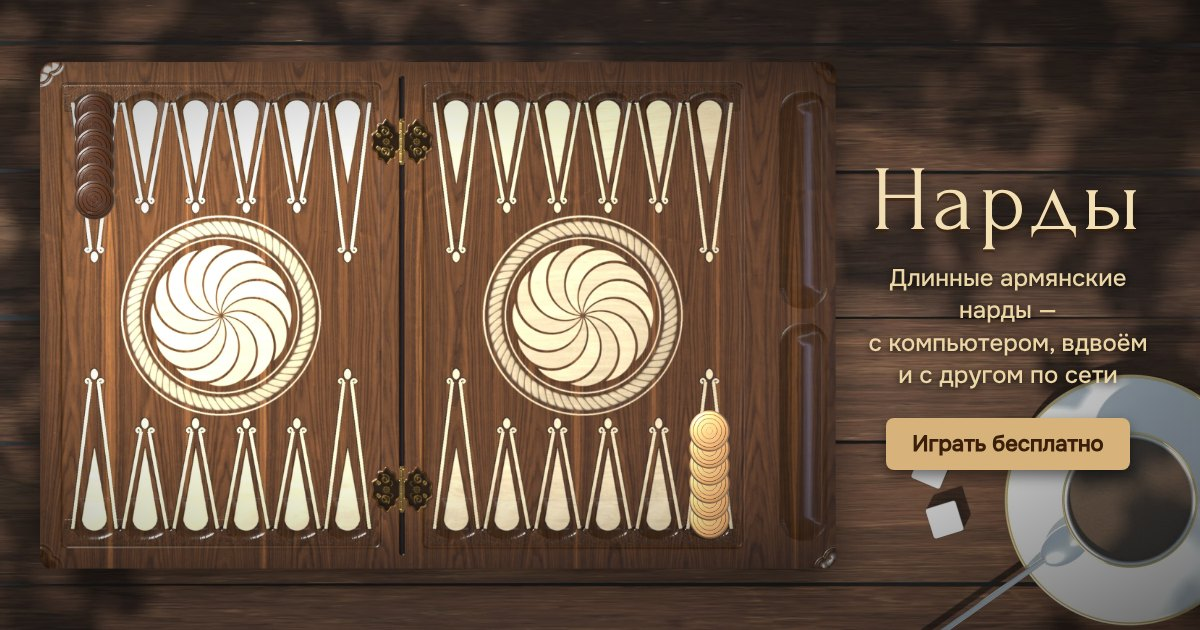
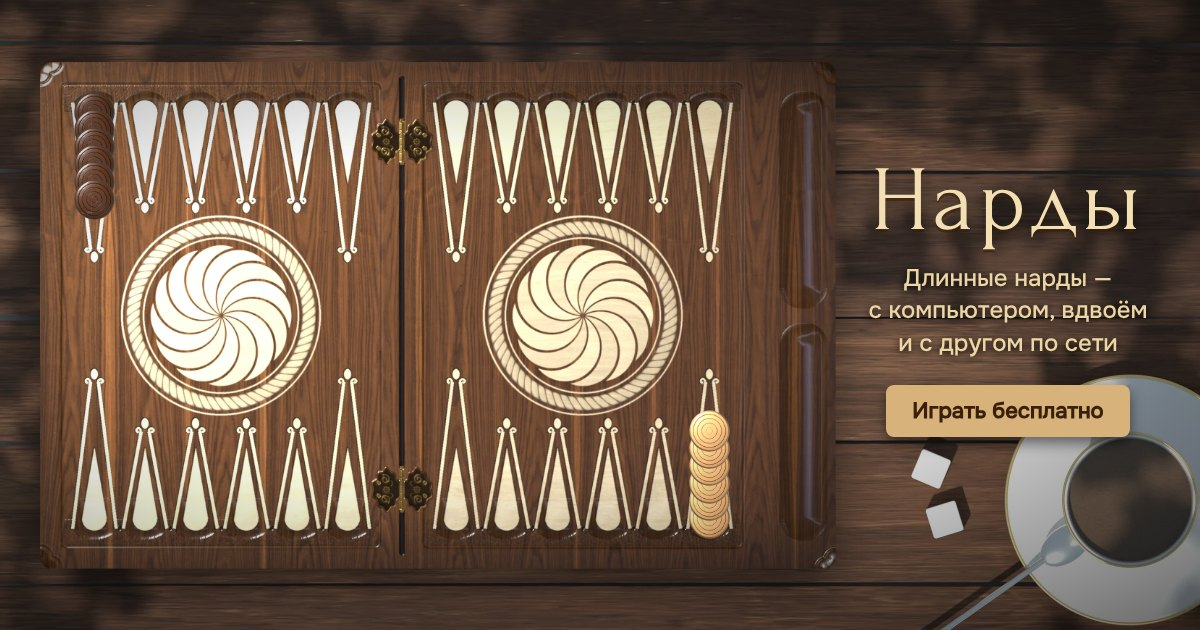
Без «армянские»: просто «Длинные нарды» в описании, превью, манифесте и ролике
Claude-Session: https://claude.ai/code/session_013vq6NREHT7txoK1nXmxN83

Changed region(s): [[0.7092, 0.4222, 0.9558, 0.6635], [0.74, 0.6937, 0.9558, 0.7841]]

diff --git a/index.html b/index.html
@@ -4,11 +4,11 @@
 <meta charset="utf-8">
 <meta name="viewport" content="width=device-width,initial-scale=1,viewport-fit=cover,user-scalable=no">
 <title>Нарды</title>
-<meta name="description" content="Длинные армянские нарды ручной работы: играйте с компьютером, вдвоём на одном телефоне или с другом по ссылке. Бесплатно, без регистрации.">
+<meta name="description" content="Длинные нарды с резными досками ручной работы: играйте с компьютером, вдвоём на одном телефоне или с другом по ссылке. Бесплатно, без регистрации.">
 <!-- превью ссылки в мессенджерах и соцсетях -->
 <meta property="og:type" content="website">
 <meta property="og:site_name" content="Нарды">
-<meta property="og:title" content="Нарды — длинные армянские нарды">
+<meta property="og:title" content="Нарды — длинные нарды">
 <meta property="og:description" content="Играйте с компьютером, вдвоём или с другом по ссылке. Резные доски, кофе во дворике и честные кубики. Бесплатно, без регистрации.">
 <meta property="og:url" content="https://angel3330506.github.io/nardy/">
 <meta property="og:image" content="https://angel3330506.github.io/nardy/og.jpg">
@@ -16,7 +16,7 @@
 <meta property="og:image:height" content="630">
 <meta property="og:locale" content="ru_RU">
 <meta name="twitter:card" content="summary_large_image">
-<meta name="twitter:title" content="Нарды — длинные армянские нарды">
+<meta name="twitter:title" content="Нарды — длинные нарды">
 <meta name="twitter:image" content="https://angel3330506.github.io/nardy/og.jpg">
 <meta name="theme-color" content="#0c0b0a">
 <meta name="mobile-web-app-capable" content="yes">
@@ -658,7 +658,7 @@ html.night .sky{mix-blend-mode:normal;background:radial-gradient(ellipse 50% 58%
 (()=>{
 'use strict';
 const $=id=>document.getElementById(id);
-const APP_VERSION='47';   // совпадает с VERSION в sw.js; добавляется к адресам картинок, чтобы новые доски не брались из старого кэша
+const APP_VERSION='48';   // совпадает с VERSION в sw.js; добавляется к адресам картинок, чтобы новые доски не брались из старого кэша
 const NS='http://www.w3.org/2000/svg';
 const f2=v=>(+v).toFixed(1);
 

diff --git a/tools/promo/og.html b/tools/promo/og.html
@@ -13,7 +13,7 @@ html,body{margin:0;width:1200px;height:630px;overflow:hidden;background:#1c120a 
 </style></head><body>
 <div class="board" id="b"><img src="../../boards/ararat.webp"></div>
 <div class="v"></div>
-<div class="t"><h1>Нарды</h1><p>Длинные армянские нарды —<br>с компьютером, вдвоём<br>и с другом по сети</p><b>Играть бесплатно</b></div>
+<div class="t"><h1>Нарды</h1><p>Длинные нарды —<br>с компьютером, вдвоём<br>и с другом по сети</p><b>Играть бесплатно</b></div>
 <script>
 // шашки в начальной позиции: голова белых справа внизу, чёрных слева вверху
 const b=document.getElementById('b'), k=796/1100;

diff --git a/sw.js b/sw.js
@@ -1,5 +1,5 @@
 // Офлайн-кэш: страница, доски, звуки и шрифты кэшируются при установке.
-const V = '47';                 // = APP_VERSION в index.html
+const V = '48';                 // = APP_VERSION в index.html
 const VERSION = 'nardy-v' + V;
 const SHELL = [
   './',

diff --git a/tools/promo/cards.py b/tools/promo/cards.py
@@ -14,12 +14,12 @@ def overlay(w,h,lines,name,dim=None):
     for (x,y,t,fn,sz,col) in lines: shadow_text(im,(x,y),t,F(fn,sz),col)
     im.save(f'{S}/vid/{name}.png')
 # горизонтальная 1920x1080
-overlay(1920,1080,[(960,470,'Нарды','ForumC.ttf',190,gold),(960,610,'длинные · армянские','DEJAVU',46,soft)],'h_title',dim='full')
+overlay(1920,1080,[(960,470,'Нарды','ForumC.ttf',190,gold),(960,610,'длинные нарды','DEJAVU',46,soft)],'h_title',dim='full')
 overlay(1920,1080,[(960,430,'Играй бесплатно','ForumC.ttf',120,gold),(960,565,'angel3330506.github.io/nardy','DEJAVU',50,soft),(960,650,'с компьютером · вдвоём · с другом по сети','DEJAVU',36,soft)],'h_end')
 for i,(a,b) in enumerate((('Резные доски','как настоящие'),('Бросай кубики','пальцем'),('Играй с другом','по ссылке'))):
     overlay(1920,1080,[(960,975,a+' · '+b,'ForumC.ttf',72,gold)],f'h_cap{i}',dim=(900,1060))
 # вертикальная 1080x1920
-overlay(1080,1920,[(540,330,'Нарды','ForumC.ttf',200,gold),(540,470,'длинные · армянские','DEJAVU',54,soft)],'v_title')
+overlay(1080,1920,[(540,330,'Нарды','ForumC.ttf',200,gold),(540,470,'длинные нарды','DEJAVU',54,soft)],'v_title')
 overlay(1080,1920,[(540,1450,'Играй бесплатно','ForumC.ttf',110,gold),(540,1570,'angel3330506.github.io/nardy','DEJAVU',42,soft)],'v_end')
 for i,(a,b) in enumerate((('Резные доски','как настоящие'),('Бросай кубики','пальцем'),('Играй с другом','по ссылке'))):
     overlay(1080,1920,[(540,1430,a,'ForumC.ttf',96,gold),(540,1540,b,'DEJAVU',50,soft)],f'v_cap{i}',dim=(1370,1600))
